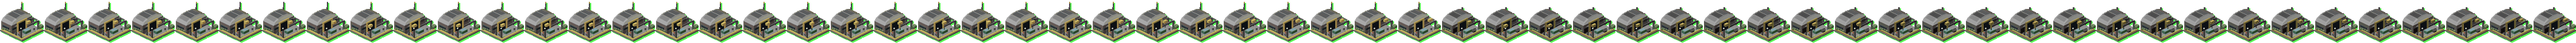
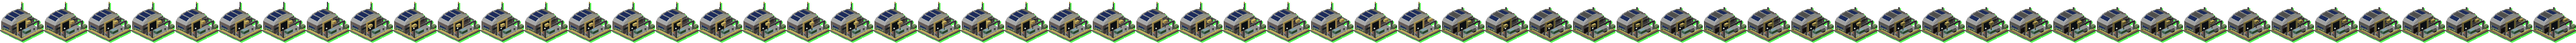
Issue #130, third pass: the same cell fields on the Yard, Refinery and both Solar Arrays
At the owner's request, so every photovoltaic surface reads as one material:
the Yard's vault ribs and wall panel, the Refinery's roof teeth and tower cap,
and both Solar Arrays' collectors (pv_panel's face and mullions are the
unshaded PV_CELL / PV_CELL_DARK now). Nine sheets regenerated, nothing else;
second run identical; check-yaml 0 across 75 maps; missing-sprites unchanged;
check-scripts passes.

Claude-Session: https://claude.ai/code/session_01RMpaweDkdh9CMAR3q9WMob

Changed region(s): [[0.0, 0.25, 0.9944, 0.4722]]

diff --git a/mods/sungrid/bits/gen_concept_art.py b/mods/sungrid/bits/gen_concept_art.py
@@ -1259,7 +1259,7 @@ def dome(m, cx, cy, z, r, col, steps=5, height=None):
 def pv_panel(m, x0, y, w, d, z, rise=6.5, face=None, order=2, damaged=False, frame=None):
     """A collector panel tilted back-and-up (low edge at the front), on two
     posts, with cell mullions and a lit aluminium frame on its top and left."""
-    face = lit(PANEL_BLUEBLACK, 0.1) if face is None else face
+    face = PV_CELL if face is None else face          # unshaded cell face (issue #130, third pass)
     frame = lit(LEGACY_GRAY, 0.45) if frame is None else frame
     x1, lo, hi = x0 + w, z + 3, z + 3 + rise
     m.strut((x0 + 3, y + d / 2, z), (x0 + 3, y + d / 2, lo + rise * 0.4), 0.7, STEEL)
@@ -1268,10 +1268,10 @@ def pv_panel(m, x0, y, w, d, z, rise=6.5, face=None, order=2, damaged=False, fra
     for k in range(1, 4):
         yy, zz = y + d * k / 4, lo + rise * k / 4
         m.quad((x0, yy - 0.25, zz - 0.15), (x1, yy - 0.25, zz - 0.15), (x1, yy + 0.25, zz + 0.15),
-               (x0, yy + 0.25, zz + 0.15), dim(PANEL_BLUEBLACK, 0.55), order=order + 1)
+               (x0, yy + 0.25, zz + 0.15), PV_CELL_DARK, order=order + 1)
     xm = x0 + w / 2
     m.quad((xm - 0.2, y, lo), (xm + 0.2, y, lo), (xm + 0.2, y + d, hi), (xm - 0.2, y + d, hi),
-           dim(PANEL_BLUEBLACK, 0.55), order=order + 1)
+           PV_CELL_DARK, order=order + 1)
     m.quad((x0, y + d - 0.6, hi - 0.4), (x1, y + d - 0.6, hi - 0.4), (x1, y + d, hi), (x0, y + d, hi), frame, order=order + 2)
     m.quad((x0, y, lo), (x0 + 0.6, y, lo), (x0 + 0.6, y + d, hi), (x0, y + d, hi), frame, order=order + 2)
     if damaged:
@@ -1847,8 +1847,8 @@ def sgproc_mesh(damaged=False, belt=0):
     for i in range(3):
         y0 = -1 + i * 8.6
         y1 = y0 + 8.6
-        pv = PANEL_BLUEBLACK if not (damaged and i == 1) else DAMAGE_SCORCH
-        m.quad((-24.5, y0, 15), (-5.5, y0, 15), (-5.5, y1 - 0.6, 19.5), (-24.5, y1 - 0.6, 19.5), pv, order=1)
+        pv_field(m, (-24.5, y0, 15), (-5.5, y0, 15), (-5.5, y1 - 0.6, 19.5), (-24.5, y1 - 0.6, 19.5),
+                 cols=3, rows=1, order=1, burnt=damaged and i == 1)
         m.box(-24.5, y1 - 0.6, 15, -5.5, y1, 19.5, dim(hall, 0.2), top=lit(hall, 0.15), shadow=False)
     # Surface detail (issue #128): a ribbon window along the hall's left
     # flank, a louvre set left of the door, and a seam line at sill height.
@@ -1866,7 +1866,9 @@ def sgproc_mesh(damaged=False, belt=0):
     # A box band with no top face can take an order override safely (rule 15's
     # disc problem is a prism's cap); at order 0 the tower's walls sorted over it.
     m.box(7.4, 7.4, 13.5, 24.6, 24.6, 15.0, gold, order=1, shadow=False, top_face=False, accent=not damaged)
-    m.box(9, 9, 26, 23, 23, 27.2, PANEL_BLUEBLACK, top=lit(PANEL_BLUEBLACK, 0.3), shadow=False)
+    m.box(9, 9, 26, 23, 23, 27.2, dim(frame_, 0.2), top=lit(frame_, 0.1), shadow=False)
+    pv_field(m, (9, 9, 27.25), (23, 9, 27.25), (23, 23, 27.25), (9, 23, 27.25), cols=2, rows=2, order=1,
+             burnt=damaged)
     # Tower detail (issue #128): a walkway band, a window band under the cap,
     # a ladder up the near face, and the process pipe from the hall.
     m.box(7.2, 7.2, 17.6, 24.8, 24.8, 18.4, lit(frame_, 0.3), order=1, shadow=False, top_face=False)
@@ -1944,7 +1946,8 @@ def sgfact_mesh(damaged=False, build=None, beacon=True):
         z0, z1 = 17 + 8 * math.sin(a0), 17 + 8 * math.sin(a1)
         m.quad((x0, 0, z0), (x1, 0, z1), (x1, 24, z1), (x0, 24, z0), lit(hall, 0.05), order=1)
         if 1 <= i <= 3 and not (damaged and i == 2):
-            m.quad((x0 + 1, 3, z0 + 0.4), (x1 - 1, 3, z1 + 0.4), (x1 - 1, 21, z1 + 0.4), (x0 + 1, 21, z0 + 0.4), PANEL_BLUEBLACK, order=2)
+            pv_field(m, (x0 + 1, 3, z0 + 0.4), (x1 - 1, 3, z1 + 0.4), (x1 - 1, 21, z1 + 0.4), (x0 + 1, 21, z0 + 0.4),
+                     cols=1, rows=4, order=2)
         elif damaged and i == 2:
             m.quad((x0 + 1, 3, z0 + 0.4), (x1 - 1, 3, z1 + 0.4), (x1 - 1, 21, z1 + 0.4), (x0 + 1, 21, z0 + 0.4), DAMAGE_SCORCH, order=2)
     m.poly([(-24 * math.cos(math.pi * i / n), 0, 17 + 8 * math.sin(math.pi * i / n)) for i in range(n + 1)], hall, order=1)
@@ -1953,7 +1956,8 @@ def sgfact_mesh(damaged=False, build=None, beacon=True):
     m.box(-11, -1.2, 2, -9, 0.4, 18, door, top=lit(door, 0.2), order=2, shadow=False, accent=True)
     m.box(9, -1.2, 2, 11, 0.4, 18, door, top=lit(door, 0.2), order=2, shadow=False, accent=True)
     m.box(-11, -1.2, 16, 11, 0.4, 18, door, top=lit(door, 0.2), order=2, shadow=False, accent=True)
-    m.box(-24.6, 6, 9, -23.8, 20, 12, PANEL_BLUEBLACK, top=PANEL_BLUEBLACK, order=1, shadow=False)
+    m.box(-24.6, 6, 9, -23.8, 20, 12, dim(hall, 0.3), top=dim(hall, 0.3), order=1, shadow=False)
+    pv_field(m, (-24.7, 20, 9), (-24.7, 6, 9), (-24.7, 6, 12), (-24.7, 20, 12), cols=4, rows=1, order=2)
     # Surface detail (issue #128): windows left of the door, louvres right of
     # it, a seam at sill height, a vent stack on the vault's right shoulder.
     m.box(-22, -0.7, 9.5, -13, 0.1, 12.0, PANEL_BLUEBLACK, order=1, shadow=False, top_face=False)

diff --git a/docs/ART_DIRECTION.md b/docs/ART_DIRECTION.md
@@ -201,7 +201,7 @@ The material is the pale steel of the concept renders in `concept-art/cameo-sour
 
 ![Issue 129 review render: the nine new photographic cameos at 4x.](concept-art/issue129-cameos.png)
 
-**Follow-up: the four stock buildings drawn to the renders, animated (`docs/BACKLOG.md` issue #130).** The War Factory, the Assembly Barracks, the Consortium Barracks and the Tesla Coil, renamed Arc Pylon, in one pass at the owner's request, each on the roster's conventions and each to the render its cameo was cut from. The War Factory is a PV-roofed assembly hangar: an open bay on the near-left with two tracked hulls on the floor, a loading gantry on the apron outside it whose trolley runs out and back (the idle animation), a solid workshop block with the roller door the vehicles leave through, which is the engine's production-door overlay rising into its drum. The Assembly Barracks is a squat hardened block under a flat PV roof with a sunken sandbagged entrance; the Consortium Barracks is two light crew containers under a PV canopy on slim posts with a deck in front. Both fly the owner's flag on a pole at the near-right corner, waving through ten frames as stock RA's barracks flags did. The Arc Pylon is a steel lattice tower on a 1x1 pad with a transformer at its foot, an electrode ring with six rods and a spire; a violet corona hops between the rods while it idles, and when it charges a bolt climbs the tower from the transformer and the ring lights as it arrives. Wrecks and build-ups are derived as for the rest of the roster. The owner's review of the first render asked for darker panels (every roof had come out the same grey as the walls), wall detail and unmistakable animation: the roofs are cell fields now, drawn unshaded in the palette's dark blue with mullions and a pale frame like the Solar Array's collectors; the walls carry cladding joints, corrugation, framed windows, ladders, pipes, fans and lamps; and each building animates two things, a lamp blinking beside what already moved. `docs/concept-art/issue130-four-buildings.png` shows every state beside its cameo.
+**Follow-up: the four stock buildings drawn to the renders, animated (`docs/BACKLOG.md` issue #130).** The War Factory, the Assembly Barracks, the Consortium Barracks and the Tesla Coil, renamed Arc Pylon, in one pass at the owner's request, each on the roster's conventions and each to the render its cameo was cut from. The War Factory is a PV-roofed assembly hangar: an open bay on the near-left with two tracked hulls on the floor, a loading gantry on the apron outside it whose trolley runs out and back (the idle animation), a solid workshop block with the roller door the vehicles leave through, which is the engine's production-door overlay rising into its drum. The Assembly Barracks is a squat hardened block under a flat PV roof with a sunken sandbagged entrance; the Consortium Barracks is two light crew containers under a PV canopy on slim posts with a deck in front. Both fly the owner's flag on a pole at the near-right corner, waving through ten frames as stock RA's barracks flags did. The Arc Pylon is a steel lattice tower on a 1x1 pad with a transformer at its foot, an electrode ring with six rods and a spire; a violet corona hops between the rods while it idles, and when it charges a bolt climbs the tower from the transformer and the ring lights as it arrives. Wrecks and build-ups are derived as for the rest of the roster. The owner's review of the first render asked for darker panels (every roof had come out the same grey as the walls), wall detail and unmistakable animation: the roofs are cell fields now, drawn unshaded in the palette's dark blue with mullions and a pale frame like the Solar Array's collectors; the walls carry cladding joints, corrugation, framed windows, ladders, pipes, fans and lamps; and each building animates two things, a lamp blinking beside what already moved. `docs/concept-art/issue130-four-buildings.png` shows every state beside its cameo. The same cell fields then went onto the Yard, the Refinery and both Solar Arrays at the owner's request, so every photovoltaic surface in the mod is one material (`docs/concept-art/issue130-cell-fields.png`).
 
 ![Issue 130 review render: the War Factory, both barracks and the Arc Pylon in every state, with their cameos, at 3x.](concept-art/issue130-four-buildings.png)
 

diff --git a/docs/BACKLOG.md b/docs/BACKLOG.md
@@ -4806,6 +4806,14 @@ frames (`lamp`, via `wall_lamp()`), the pylon's corona and the transformer's sta
 Remap counts after the pass: `sgweap` 292, `sgbarr` 206, `sgtent` 219, `sgtsla` 122 on frame 0; the door sheet
 still 0 and byte-identical to the first pass.
 
+**Third pass, at the owner's request:** the same cell fields on the rest of the roster's photovoltaics, so one
+material reads across the base. The Construction Yard's three vault ribs and its wall panel on the near-left
+face, the Materials Refinery's three roof teeth and its tower cap, and both Solar Arrays, whose `pv_panel()`
+collectors now take `PV_CELL` as the face and `PV_CELL_DARK` for the mullions (their frame is unchanged).
+Regeneration changed nine sheets (`sgfact`, `sgfactmake`, `sgproc`, `sgprocmake`, `sgprocdead`, `sgpwr`,
+`sgpwrmake`, `sgapwr`, `sgapwrmake`) and nothing else; `docs/concept-art/issue130-cell-fields.png` is the
+before/after. `PANEL_BLUEBLACK` stays for what is glass, not cells: the window strips and the drones' airframes.
+
 **Verification.** `./utility.sh --check-yaml` exits 0 across all 75 maps; `--check-missing-sprites` reports exactly
 the issue #129 set (every new PNG resolves) and the negative control - `damaged-active` Length 10 - fails with
 `sgtsla.png does not contain frames: 25`; `make check-scripts` passes; the door sheet has zero remap pixels,

diff --git a/CLAUDE.md b/CLAUDE.md
@@ -522,7 +522,10 @@ is the regression check.
     corrugation), framed window strips (a pale frame box under a `PV_CELL_DARK` glass box), `wall_lamp()` (a
     gold accent when on, dead grey when off) and `ac_unit()`; and every building carries two animated things
     (the factory's gantry and a welding flash, the barracks' flag and door lamp, the pylon's corona and
-    transformer lamp) so a still frame is never the whole sprite.
+    transformer lamp) so a still frame is never the whole sprite. Third pass, at the owner's request: the same
+    cell fields on the Yard's vault ribs and wall panel, the Refinery's roof teeth and tower cap, and both Solar
+    Arrays (`pv_panel()`'s face and mullions are `PV_CELL` / `PV_CELL_DARK` now), so every photovoltaic surface
+    in the mod is one material; `PANEL_BLUEBLACK` is left for glass strips and the drones' parked airframes.
 
 ### What can and can't be verified in this environment
 
